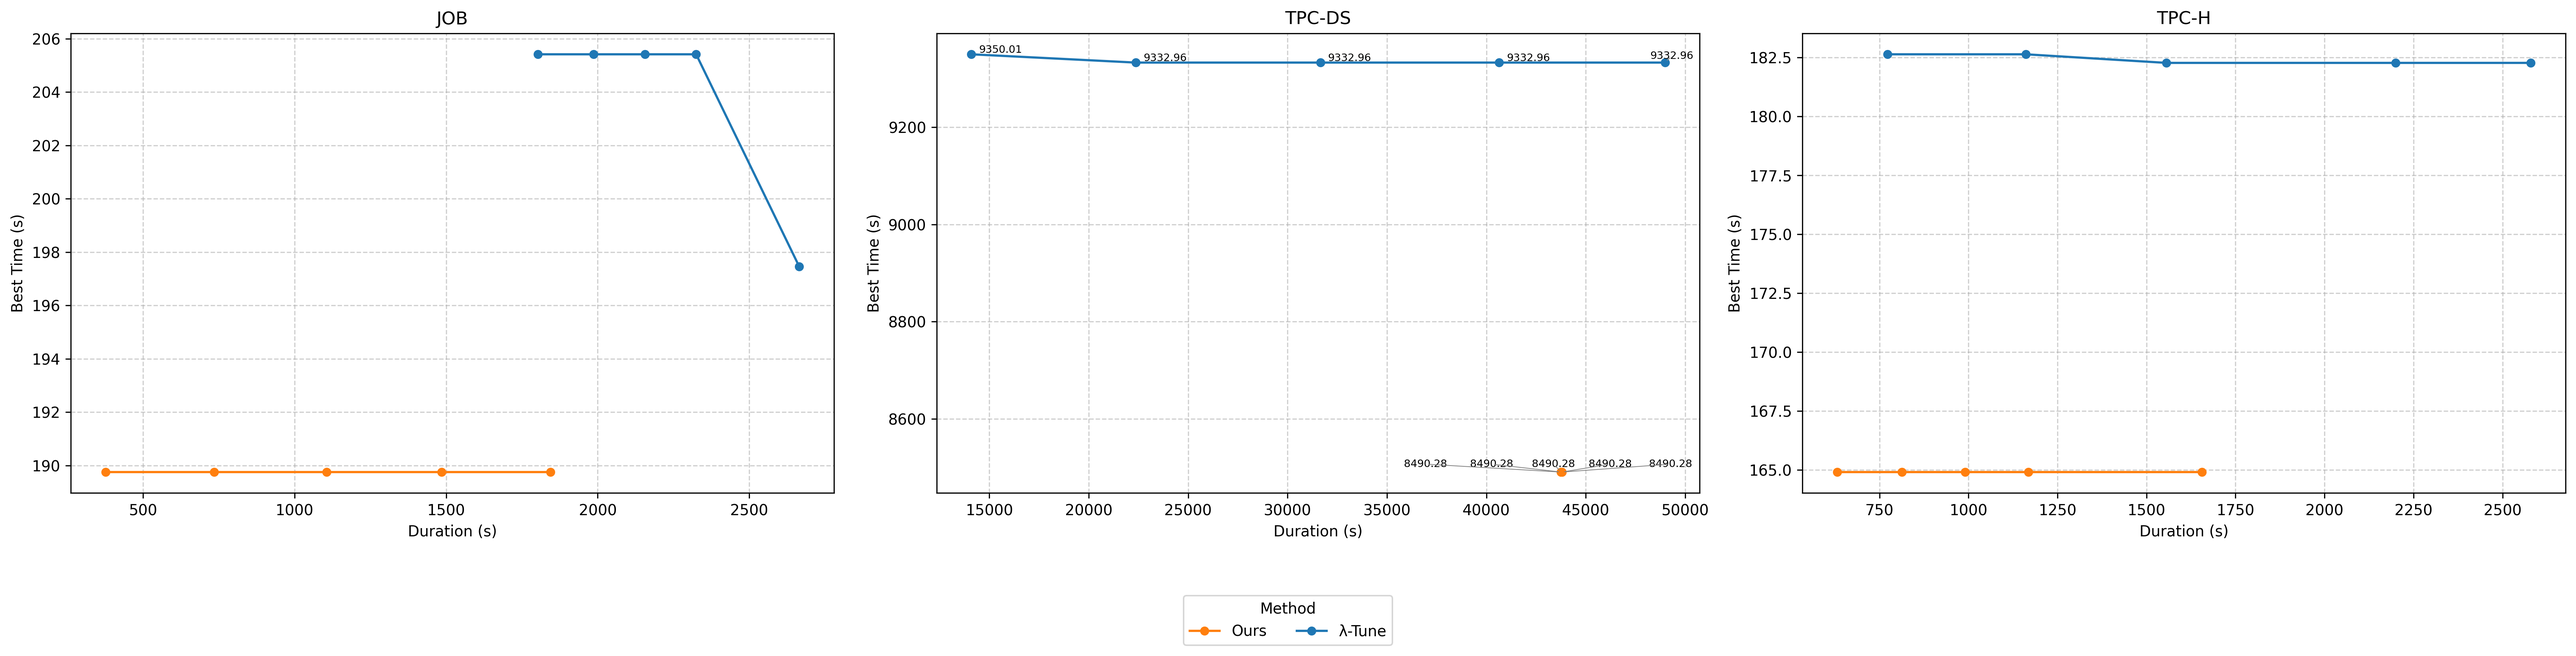
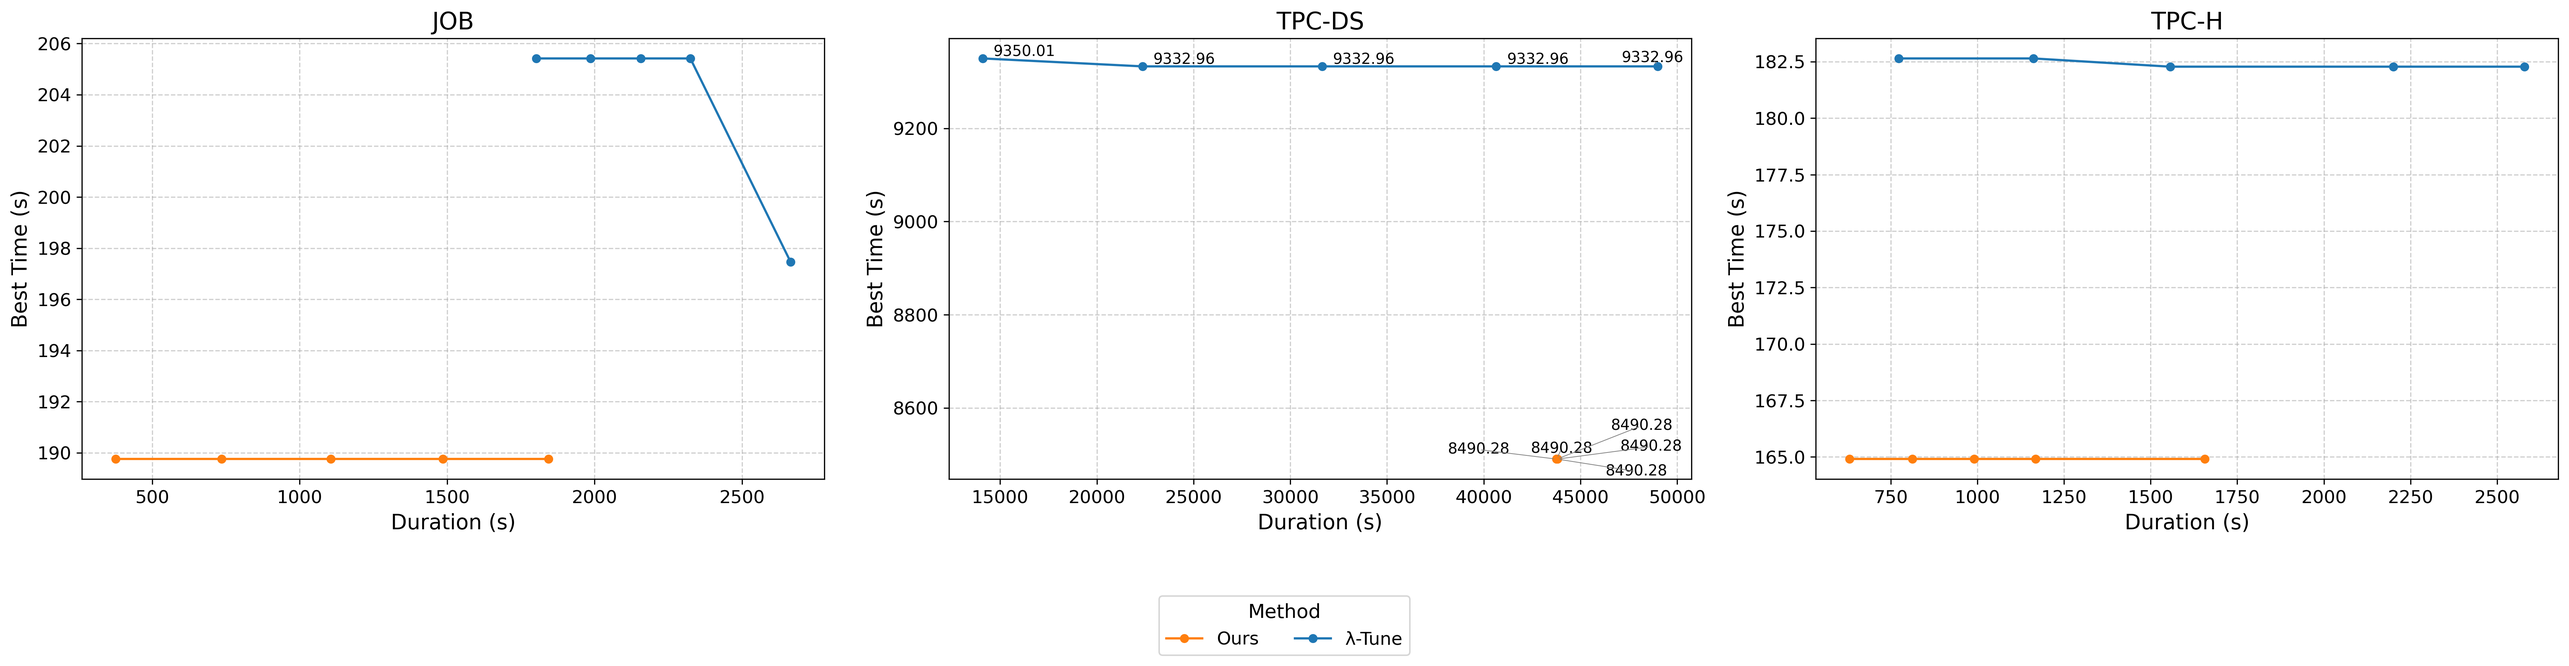
Update configuration paths and enhance plot font sizes in s5_1.py

diff --git a/s5_1.py b/s5_1.py
@@ -1,7 +1,5 @@
 # -*- coding: utf-8 -*-
 import json
-import math
-import os
 import pathlib  # Using pathlib for easier path manipulation
 from collections import defaultdict  # Useful for nested dictionaries
 
@@ -15,7 +13,6 @@ except ImportError:
     exit()  # Exit if the required library is not found
 
 # --- Configuration ---
-# (Same as before)
 base_dir = "test"
 file_paths_to_process = [
     pathlib.Path(base_dir, "s51", "job", "lambdatune", "reports.json"),
@@ -34,7 +31,6 @@ legend_label_map = {"lambdatune": "λ-Tune", "ours": "Ours"}
 grouped_plot_data = defaultdict(lambda: defaultdict(list))
 
 # --- Data Processing Loop for Each File ---
-# (Same as before - code omitted for brevity)
 for file_path in file_paths_to_process:
     print(f"--- Processing file: {file_path} ---")
     try:
@@ -103,10 +99,23 @@ print("\n--- Generating Plots ---")
 if not grouped_plot_data:
     print("No data found from any file to plot.")
 else:
+    # <<<--- START: Added Font Size Configuration ---<<<
+    # Set larger default font sizes for plot elements
+    plt.rcParams.update(
+        {
+            "font.size": 12,  # Default text size
+            "axes.titlesize": 16,  # Subplot title size
+            "axes.labelsize": 14,  # X and Y axis label size
+            "xtick.labelsize": 12,  # X-axis tick label size
+            "ytick.labelsize": 12,  # Y-axis tick label size
+            "legend.fontsize": 12,  # Legend item text size
+            "legend.title_fontsize": 13,  # Legend title size
+        }
+    )
+    # >>>--- END: Added Font Size Configuration --- >>>
+
     # Increase figure width slightly more
-    fig, axes = plt.subplots(
-        1, num_benchmarks, figsize=(8 * num_benchmarks, 6)
-    )  # Increased width factor from 7 to 8
+    fig, axes = plt.subplots(1, num_benchmarks, figsize=(8 * num_benchmarks, 6))
     if num_benchmarks == 1:
         axes = [axes]
 
@@ -117,6 +126,7 @@ else:
         print(f"\nGenerating subplot for benchmark: {benchmark_name} (Axis {i})")
         plot_title = title_map.get(benchmark_name, benchmark_name.upper())
 
+        # (Existing code for checking data...)
         if benchmark_name not in grouped_plot_data:
             print(f"  No data found for benchmark: {benchmark_name}")
             ax.set_title(f"{plot_title} (No Data)")
@@ -162,7 +172,7 @@ else:
                 y_vals,
                 marker="o",
                 linestyle="-",
-                markersize=5,
+                markersize=5,  # Keep markersize potentially small relative to text
                 label=mapped_label,
             )
             print(
@@ -173,18 +183,18 @@ else:
             # --- Store Text Annotations for TPC-DS ONLY ---
             if benchmark_name == "tpcds":
                 for x, y in zip(x_vals, y_vals):
-                    # Use smaller font size
+                    # <<<--- MODIFIED: Increased fontsize for annotations ---<<<
                     texts_for_adjust.append(
-                        ax.text(
-                            x, y, f"{y:.2f}", fontsize=7
-                        )  # Reduced fontsize from 8 to 7
+                        ax.text(x, y, f"{y:.2f}", fontsize=10)  # Increased from 7
                     )
+                    # >>>--------------------------------------------------- >>>
 
             if mapped_label not in legend_info:
                 legend_info[mapped_label] = line
 
-        # --- Apply adjust_text AFTER plotting lines for the TPC-DS subplot with TUNED parameters ---
+        # --- Apply adjust_text AFTER plotting lines for the TPC-DS subplot ---
         if benchmark_name == "tpcds" and texts_for_adjust:
+            # (Existing adjust_text call - no font changes needed here)
             print(
                 f"  Applying adjust_text to {len(texts_for_adjust)} labels for TPC-DS (Tuned)..."
             )
@@ -192,43 +202,40 @@ else:
                 adjust_text(
                     texts_for_adjust,
                     ax=ax,
-                    # Increase force parameters and iterations
-                    force_points=(0.2, 0.2),  # Increase repulsion from points
-                    force_text=(
-                        0.3,
-                        0.5,
-                    ),  # Increase repulsion between texts (more vertically)
-                    expand_points=(
-                        1.3,
-                        1.3,
-                    ),  # Slightly larger exclusion zone around points
-                    lim=500,  # Increase iteration limit
+                    force_points=(0.2, 0.2),
+                    force_text=(0.3, 0.5),
+                    expand_points=(1.3, 1.3),
+                    lim=500,
                     arrowprops=dict(arrowstyle="-", color="grey", lw=0.5),
                 )
                 print("  adjust_text applied.")
             except Exception as e:
                 print(f"  Error applying adjust_text: {e}")
 
-        # Configure subplot
-        ax.set_title(plot_title)
-        ax.set_xlabel("Duration (s)")
-        ax.set_ylabel("Best Time (s)")
+        # Configure subplot (Titles and labels will now use the rcParams sizes)
+        ax.set_title(plot_title)  # Fontsize set by 'axes.titlesize' in rcParams
+        ax.set_xlabel("Duration (s)")  # Fontsize set by 'axes.labelsize' in rcParams
+        ax.set_ylabel("Best Time (s)")  # Fontsize set by 'axes.labelsize' in rcParams
         ax.grid(True, linestyle="--", alpha=0.6)
+        # Tick label sizes are set by 'xtick.labelsize' and 'ytick.labelsize'
 
-    # Configure figure
+    # Configure figure legend (Fontsize set by 'legend.fontsize' and 'legend.title_fontsize')
     if legend_info:
         sorted_labels = sorted(legend_info.keys())
         sorted_handles = [legend_info[lbl] for lbl in sorted_labels]
         fig.legend(
             sorted_handles,
             sorted_labels,
-            title="Method",
+            title="Method",  # Title fontsize set by 'legend.title_fontsize'
             loc="upper center",
             bbox_to_anchor=(0.5, 0.03),
             ncol=len(sorted_labels),
+            # fontsize parameter could be added here to override rcParams if needed
         )
 
-    plt.tight_layout(rect=[0, 0.08, 1, 0.95])
+    plt.tight_layout(
+        rect=[0, 0.08, 1, 0.95]
+    )  # Adjust rect slightly if legend overlaps more
 
     # Save plots
     print("\n--- Saving Plots ---")
